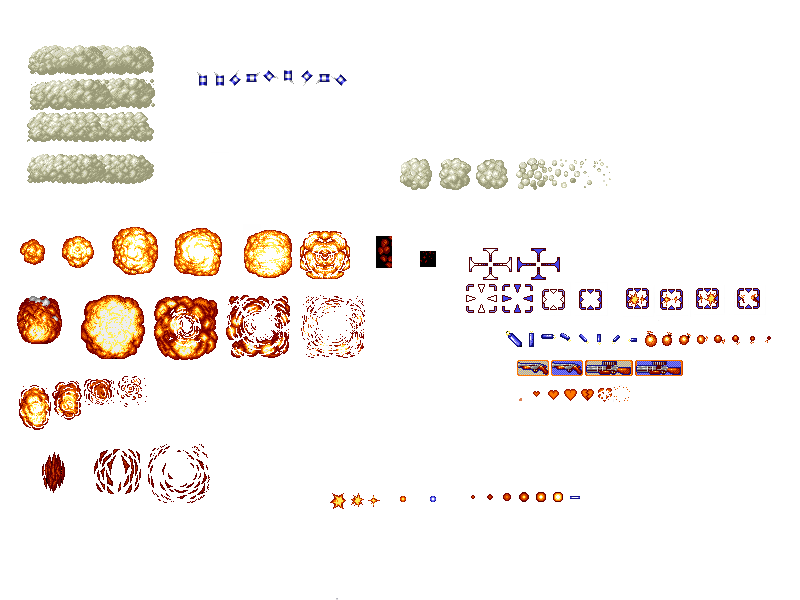
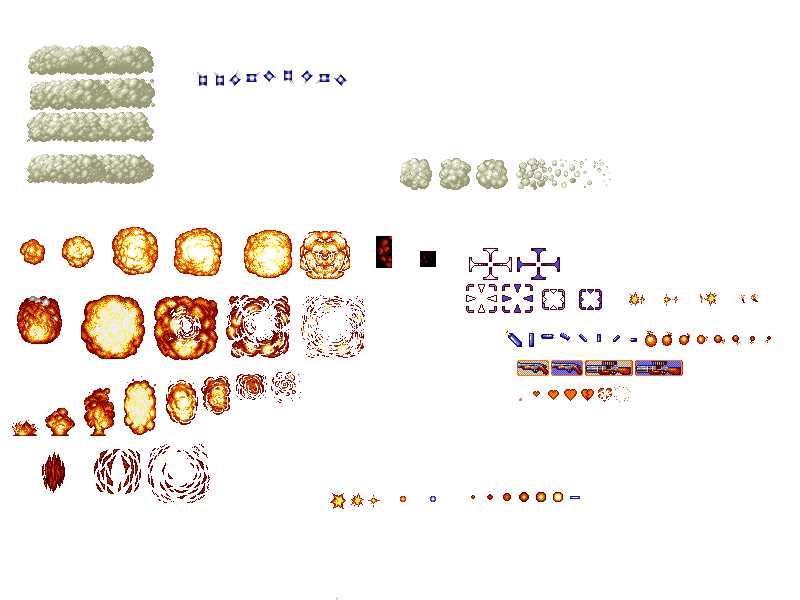
grenade animation and shot animation improved

Changed region(s): [[0.0, 0.63, 0.375, 0.75], [0.7812, 0.48, 0.9688, 0.54]]

diff --git a/Goodbros/ModuleParticles.cpp b/Goodbros/ModuleParticles.cpp
@@ -16,7 +16,11 @@ ModuleParticles::ModuleParticles()
 {
 	for (uint i = 0; i < MAX_ACTIVE_PARTICLES; ++i)
 		active[i] = nullptr;
-
+	// Explotion shot
+	explotionshot.anim.PushBack({ 330, 492, 16, 17 });
+	explotionshot.anim.PushBack({ 349, 492, 16, 17 });
+	explotionshot.anim.PushBack({ 365, 492, 16, 17 });
+	explotionshot.anim.speed = 0.2f;
 	// Enemy shot
 	enemyshot.anim.PushBack({ 399, 494, 9, 9});
 	enemyshot.anim.PushBack({ 429, 494, 9, 9 });
@@ -53,10 +57,15 @@ ModuleParticles::ModuleParticles()
 	dynamite.anim.loop = false;
 	dynamite.anim.speed = 0.1f;
 
-	dynamite_exp.anim.PushBack({ 19, 376, 32, 45 });
-	dynamite_exp.anim.PushBack({ 74, 376, 29, 39 });
-	dynamite_exp.anim.PushBack({ 116, 376, 31, 26 });
-	dynamite_exp.anim.PushBack({ 156, 375, 30, 31 });
+	dynamite_exp.anim.PushBack({ 8, 370, 34, 65 });
+	dynamite_exp.anim.PushBack({ 42, 370, 34, 65 });
+	dynamite_exp.anim.PushBack({ 82, 370, 34, 64 });
+	dynamite_exp.anim.PushBack({ 122, 370, 34, 65 });
+	dynamite_exp.anim.PushBack({ 165, 370, 34, 64 });
+	dynamite_exp.anim.PushBack({ 200, 370, 34, 65 });
+	dynamite_exp.anim.PushBack({ 234, 370, 34, 65 });
+	dynamite_exp.anim.PushBack({ 268, 370, 34, 65 });
+	
 	dynamite_exp.anim.loop = false;
 	dynamite_exp.anim.speed = 0.2f;
 
@@ -272,7 +281,7 @@ bool Particle::Update()
 		}
 		if (collider != nullptr && collider->type == COLLIDER_BOMB)
 		{
-			App->particles->AddParticle(App->particles->dynamite_exp, position.x-10, position.y-10, COLLIDER_BOMB_EXPLOSION, 0);
+			App->particles->AddParticle(App->particles->dynamite_exp, position.x-10, position.y-45, COLLIDER_BOMB_EXPLOSION, 0);
 		}
 	}
 

diff --git a/Goodbros/Enemy_Cowboy_Blue2.cpp b/Goodbros/Enemy_Cowboy_Blue2.cpp
@@ -154,14 +154,17 @@ void Enemy_CowBoy_Blue2::Move()
 	}
 	if (path.GetFrame() == 183 && isdead == false)
 	{
+		App->particles->AddParticle(App->particles->explotionshot, position.x + 5, position.y + 20, COLLIDER_NONE, 0);
 		App->particles->AddParticle(App->particles->enemyshot, position.x + 10, position.y + 20, COLLIDER_ENEMY_SHOT, 0);
 	}
 	if (path2.GetFrame() == 93 && isdead == false)
 	{
+		App->particles->AddParticle(App->particles->explotionshot, position.x + 5, position.y + 20, COLLIDER_NONE, 0);
 		App->particles->AddParticle(App->particles->enemyshot, position.x + 10, position.y + 20, COLLIDER_ENEMY_SHOT, 0);
 	}
 	if (path2.GetFrame() == 192 && isdead == false)
 	{
+		App->particles->AddParticle(App->particles->explotionshot, position.x + 5, position.y + 20, COLLIDER_NONE, 0);
 		App->particles->AddParticle(App->particles->enemyshot, position.x + 10, position.y + 20, COLLIDER_ENEMY_SHOT, 0);
 	}
 	if (dieshot.Finished() == true)

diff --git a/Goodbros/Enemy_Cowboy_Blue.cpp b/Goodbros/Enemy_Cowboy_Blue.cpp
@@ -104,10 +104,12 @@ void Enemy_CowBoy_Blue::Move()
 	position = original_pos + path.GetCurrentSpeed(&animation);
 	if (path.GetFrame() == 120 && isdead == false)
 	{
+		App->particles->AddParticle(App->particles->explotionshot, position.x + 5, position.y + 20, COLLIDER_NONE, 0);
 		App->particles->AddParticle(App->particles->enemyshot, position.x+10, position.y+20, COLLIDER_ENEMY_SHOT, 0);
 	}
 	if (path.GetFrame() == 237 && isdead == false)
 	{
+		App->particles->AddParticle(App->particles->explotionshot, position.x + 5, position.y + 20, COLLIDER_NONE, 0);
 		App->particles->AddParticle(App->particles->enemyshot,position.x+10, position.y+20, COLLIDER_ENEMY_SHOT, 0);
 	}
 	if (dieshot.Finished() == true)

diff --git a/Goodbros/ModuleParticles.h b/Goodbros/ModuleParticles.h
@@ -51,6 +51,7 @@ private:
 	Particle* active[MAX_ACTIVE_PARTICLES];
 
 public:
+	Particle explotionshot;
 	Particle enemyDynamite;
 	Particle dynamite;
 	Particle dynamite_exp;
